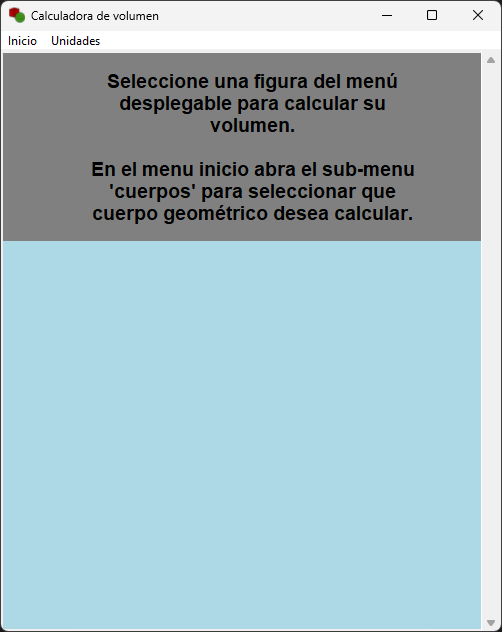
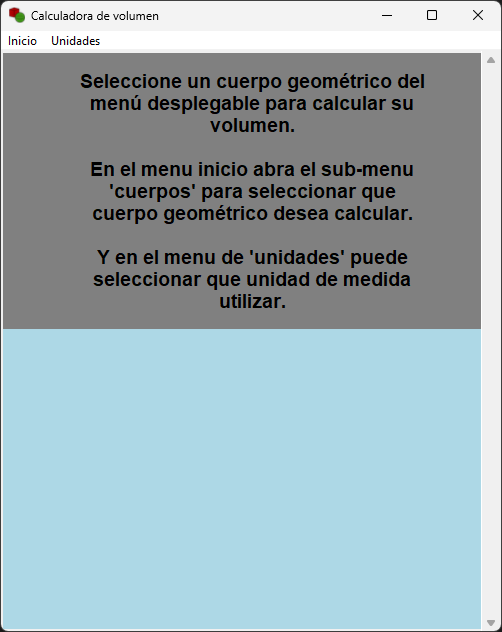
Correcciones en la documentación

Changed region(s): [[0.0, 0.3608, 0.9562, 0.5411], [0.1494, 0.1203, 0.8665, 0.1804], [0.1793, 0.2405, 0.8367, 0.3006]]

diff --git a/main.py b/main.py
@@ -10,7 +10,7 @@ from calculator import bodies_data, Body
 from unit_handler import to_meters, length_from_to, meters2_to, meters3_to
 
 # Texto de saludo
-SALUDO = "Seleccione una figura del menú desplegable para calcular su volumen." \
+SALUDO = "Seleccione un cuerpo geométrico del menú desplegable para calcular su volumen." \
 "\n\nEn el menu inicio abra el sub-menu 'cuerpos' para seleccionar que cuerpo geométrico desea calcular." \
 "\n\nY en el menu de 'unidades' puede seleccionar que unidad de medida utilizar."
 
@@ -301,7 +301,7 @@ class CalculatorFrame:
         # Modificar el título de la ventana para que sea el nombre del cuerpo
         self.etiqueta_1.config(text=new_body)
         # Cargar la imagen
-        try:  # Intenta agregar imagenes de la figura
+        try:  # Intenta agregar imagenes del cuerpo
             # Se carga el archivo con el mismo nombre de la forma en la carpeta imagenes
             img = Image.open(f'images/{new_body.name.lower()}.png')
             img = img.resize((150, 150))
@@ -365,7 +365,7 @@ class CalculatorFrame:
         # Cambiar los valores de los resultados si es necesario
         self.update_results()
 
-    # Funcion para limpiar la pantalla cuando se cambia de opción de figura
+    # Funcion para limpiar la pantalla cuando se cambia de opción del cuerpo
     def clean_frame(self):
         '''
         Elimina/limpia todos los elementos agregados a la ventana.

diff --git a/README.md b/README.md
@@ -24,9 +24,9 @@ Aplicación de cálculo del volumen de un cuerpo geométrico con interfaz gráfi
 
 ## Uso-de-la-aplicación
 1. Abrir la aplicación.
-    - Utilizando el ejecutable `.exe`
+    - Utilizando el ejecutable `volume-calculator.exe` que se encuentran los [programas publicados](https://github.com/Enzostik/volume-calculator-gui-tkinter/releases).
 
-    - Llamando con python el código `main.py`
+    - Llamando con python el código `main.py` descargando [este repositorio](https://github.com/Enzostik/volume-calculator-gui-tkinter.git) y en la terminal del sistema operativo ejecutar:
     ```bash
     python main.py
     ```
@@ -34,7 +34,7 @@ Aplicación de cálculo del volumen de un cuerpo geométrico con interfaz gráfi
   <img src="assets/step1.png" width="40%" alt="Select geometric body" />
 </div>
 
-2. Selección del cuerpo geométrico desde el menu `figuras` del menú principal.
+2. Selección del cuerpo geométrico desde el menu `cuerpos` del menú principal.
 <div align="center">
   <img src="assets/step2.png" width="40%" alt="Select geometric body" />
 </div>
@@ -63,14 +63,16 @@ from calculator import Body
 
 class NewBody(Body):
     def __init__(self, value = 0, value2 = 0):
-        # En el init de la super clase se debe ingresar el nombre y las variables que correspondan a sus dimensiones.
+        # En el init de la super clase se debe ingresar
+        # el nombre y las variables que correspondan a sus dimensiones.
         super().__init__(
             name = 'BodyName',
             valueName = value,
             value2Name = value2
         ) 
 
-    # Para utilizar los valores de los parámetros se deberán utilizarel método}: self.get('valueName');
+    # Para utilizar los valores de los parámetros se deberán utilizar 
+    # el método: self.get('valueName');
 
     # Método abstracto --> Calcular volumen
     def volume(self):
